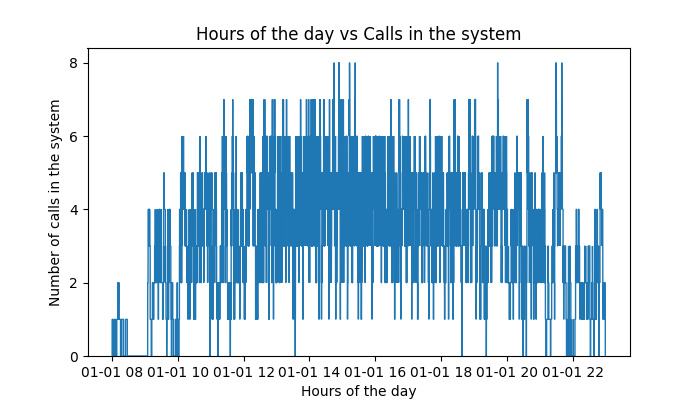
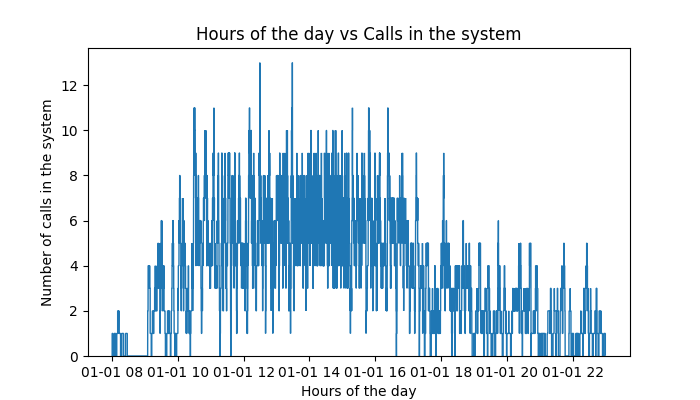
fixed n egative clients in system

diff --git a/callcenter/Metrics.py b/callcenter/Metrics.py
@@ -123,7 +123,13 @@ class Metrics:
                 hours.append(system_event[0])
                 people_in_system.append(1)
             else:
-                people_in_system.append(people_in_system[i-1] + 1 if system_event[1] == 1 else people_in_system[i-1] - 1)
+                if system_event[1] == 1:
+                    people_in_system.append(people_in_system[i - 1] + 1)
+                else:
+                    if people_in_system[i-1] - 1 < 0:
+                        people_in_system.append(0)
+                    else:
+                        people_in_system.append(people_in_system[i-1] - 1)
                 hours.append(system_event[0])
         hours.append(hours[-1] + datetime.timedelta(seconds=1))
         return people_in_system, hours
